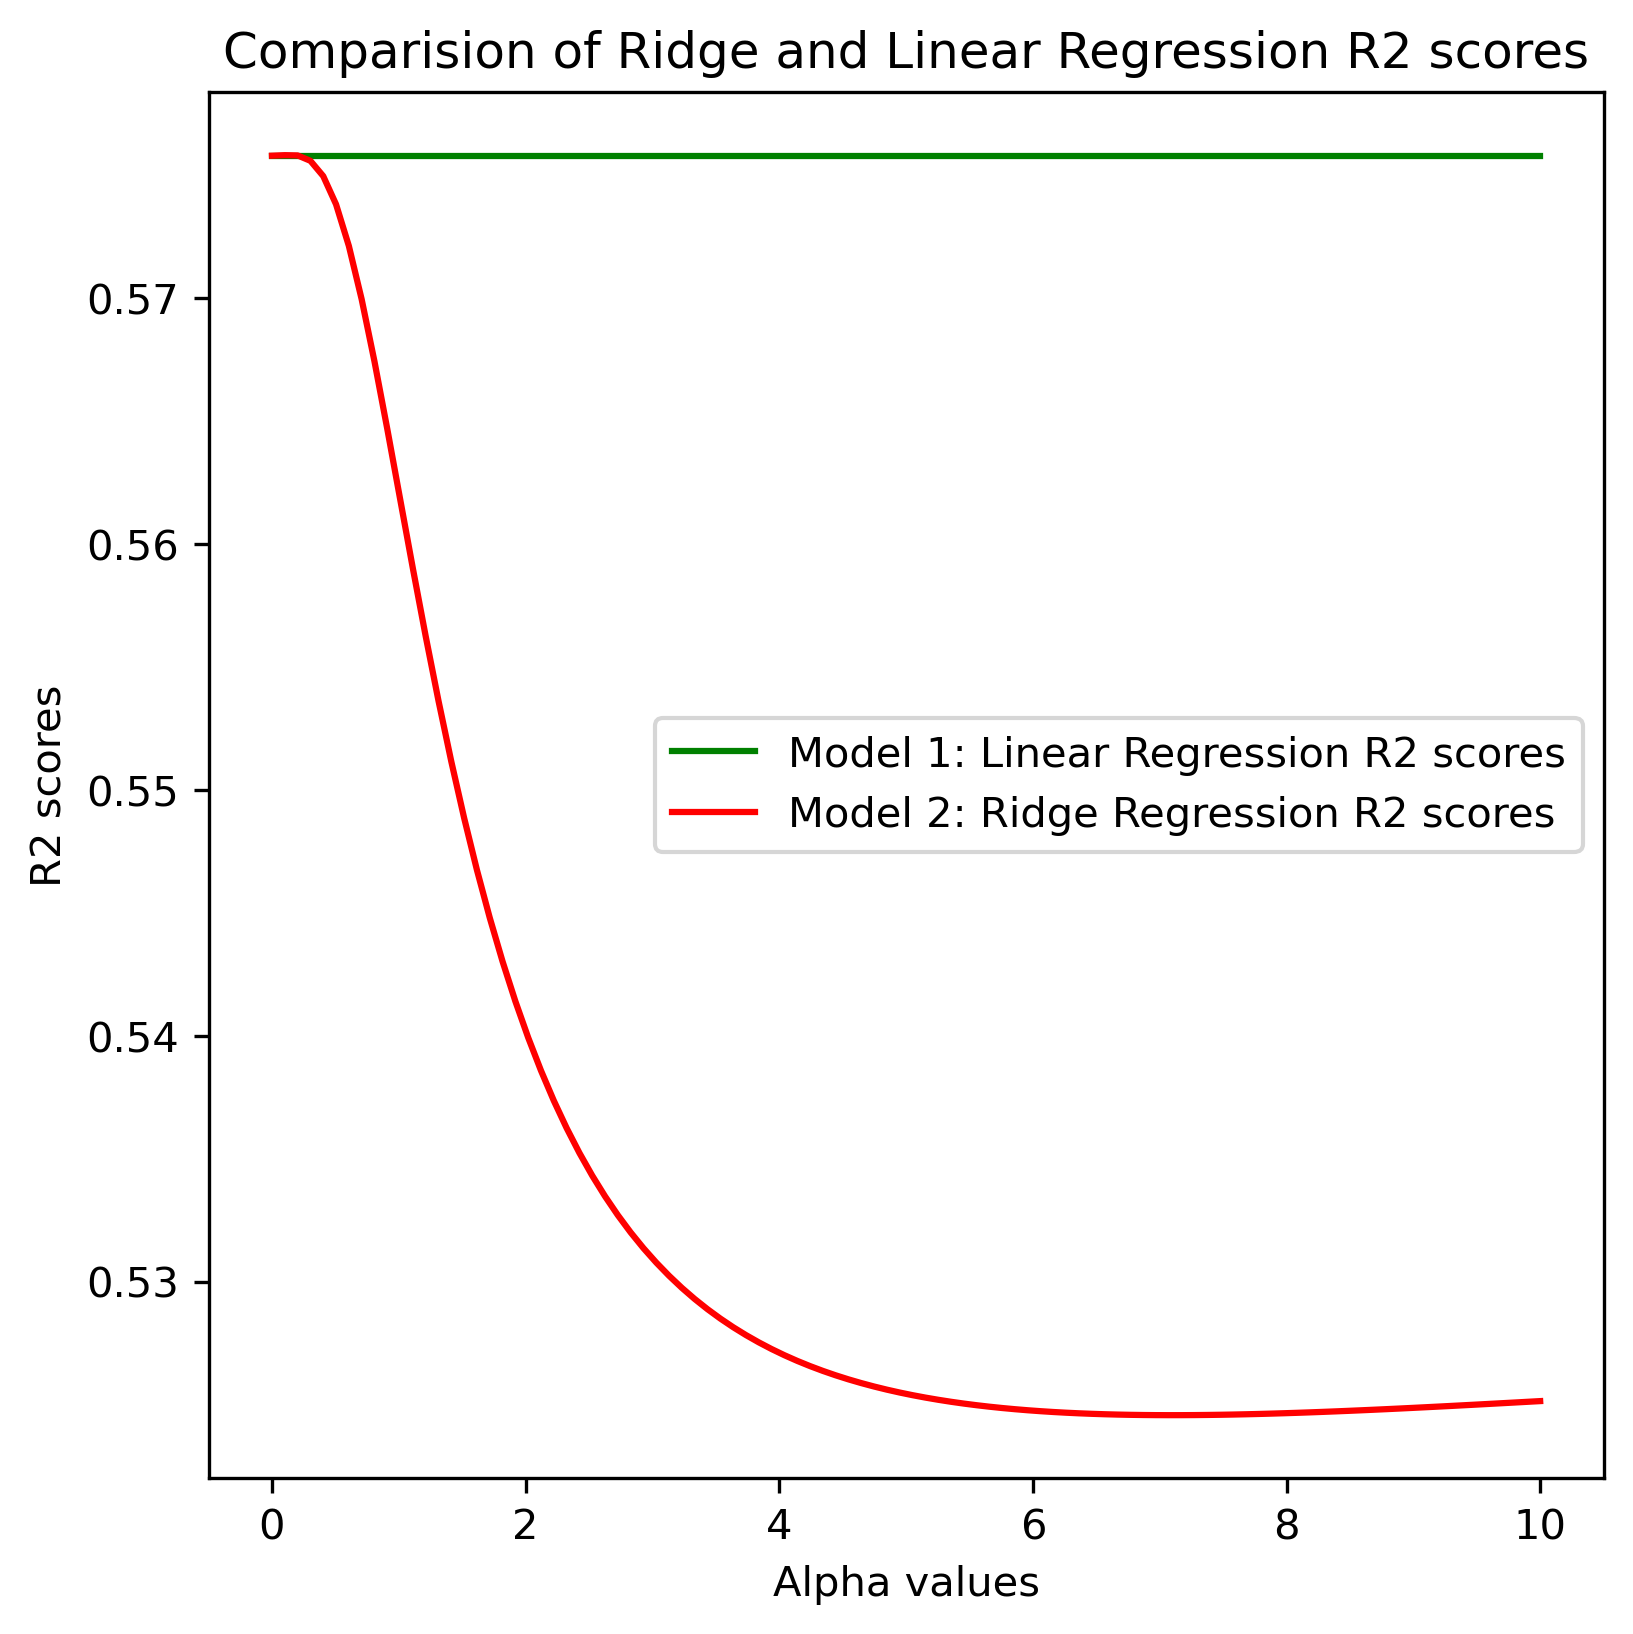
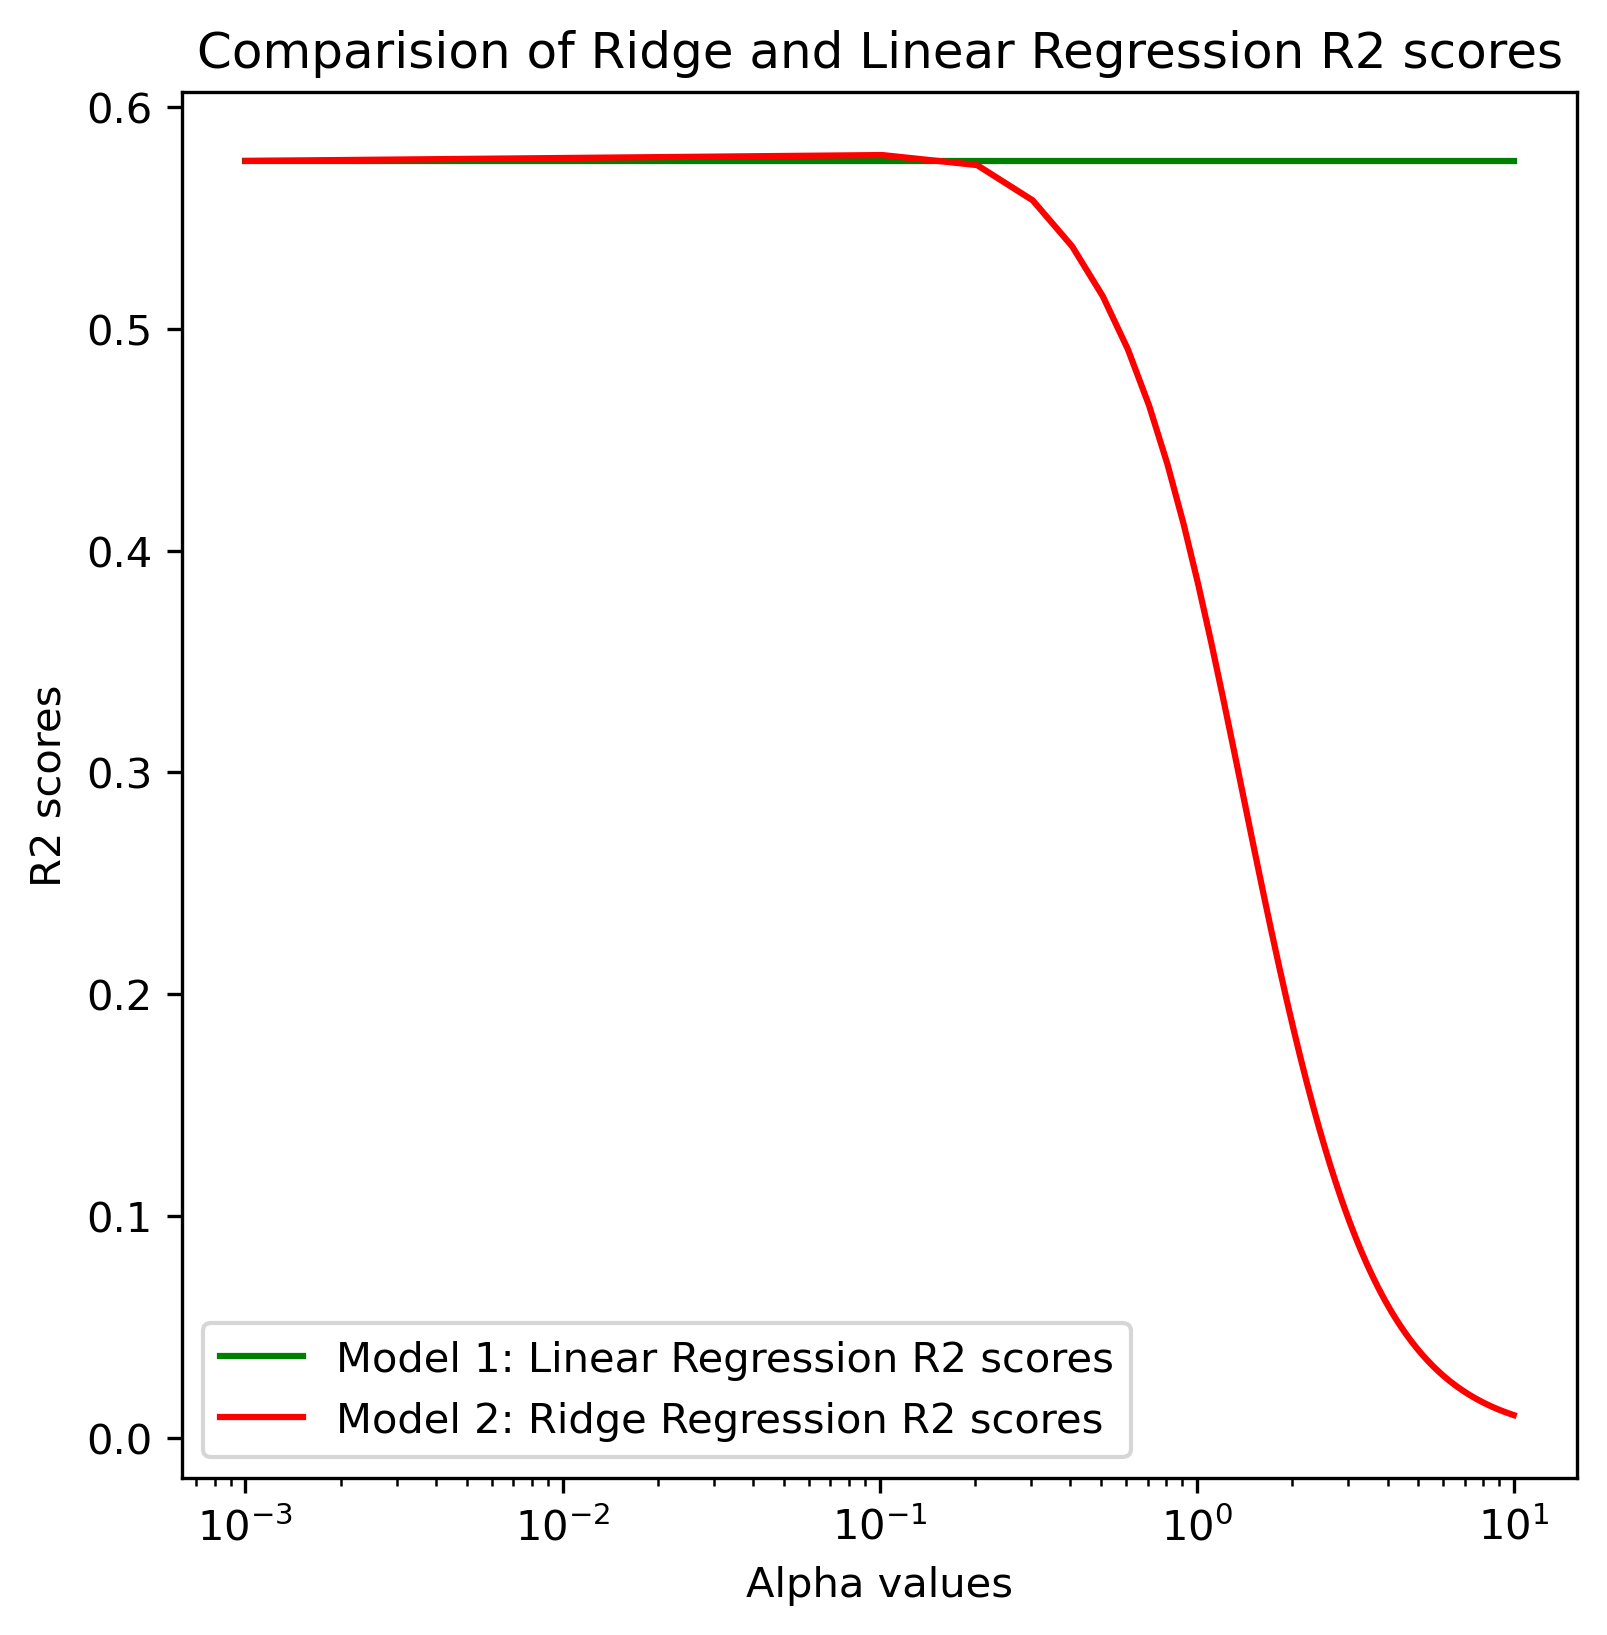
Update to question 2 due to scaling

diff --git a/homework/HW3/HW3-final/Regression.py b/homework/HW3/HW3-final/Regression.py
@@ -83,15 +83,18 @@ class RidgeRegression(LinearRegression):
 
 
     def fit(self, X, y):
-        #need to add bias to X append the ones
+       #need to add bias to X append the ones
+        scale = 1 / np.sqrt(np.sum((X - np.mean(X,axis=0))**2, axis =0))
+        X = X*scale
         bias = np.ones((X.shape[0],1))  #columns of ones length of X
         X = np.hstack((bias, X))
         
         I = np.identity(X.shape[1])
         Gamma = self.alpha * I
+        Gamma[0,0] =0
         betaRR = np.linalg.pinv(X.T @ X + Gamma.T @ Gamma) @ (X.T @ y)
         interceptRR = betaRR[0]
-        coeffRR = betaRR[1:]
+        coeffRR = betaRR[1:] *scale
         self.params["coeff"] = coeffRR
         self.params["intercept"] = interceptRR
         

diff --git a/homework/HW3/HW3-final/model_performance.py b/homework/HW3/HW3-final/model_performance.py
@@ -41,6 +41,7 @@ plt.plot(alpha, r2_LR_m1, 'g-', label = "Model 1: Linear Regression R2 scores")
 plt.plot(alpha, r2_RR_m2, 'r-', label = "Model 2: Ridge Regression R2 scores")
 plt.title("Comparision of Ridge and Linear Regression R2 scores")
 plt.xlabel("Alpha values")
+plt.xscale("log")
 plt.ylabel("R2 scores")
 plt.legend()
 plt.draw()
